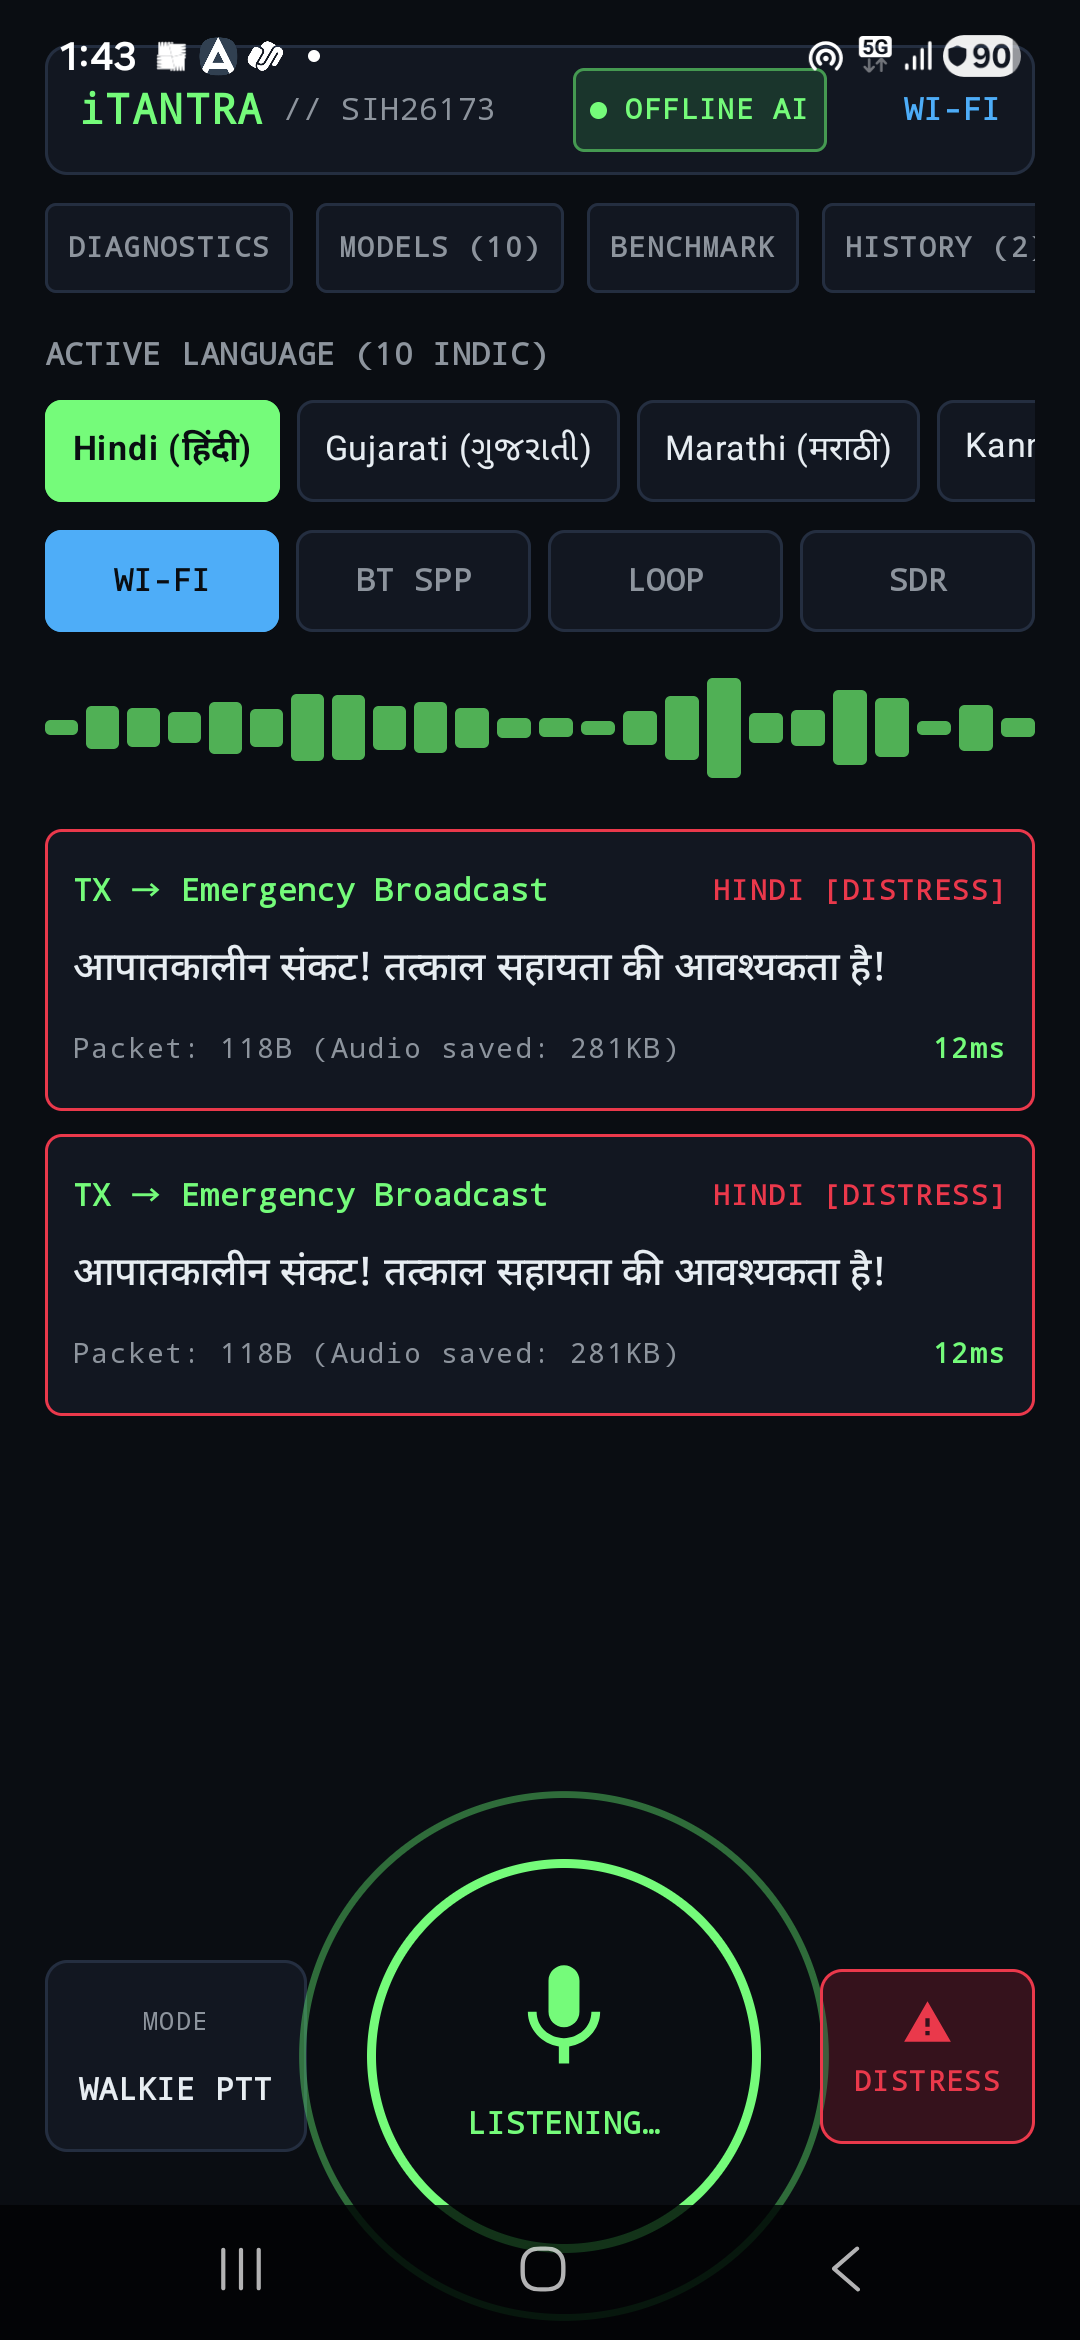
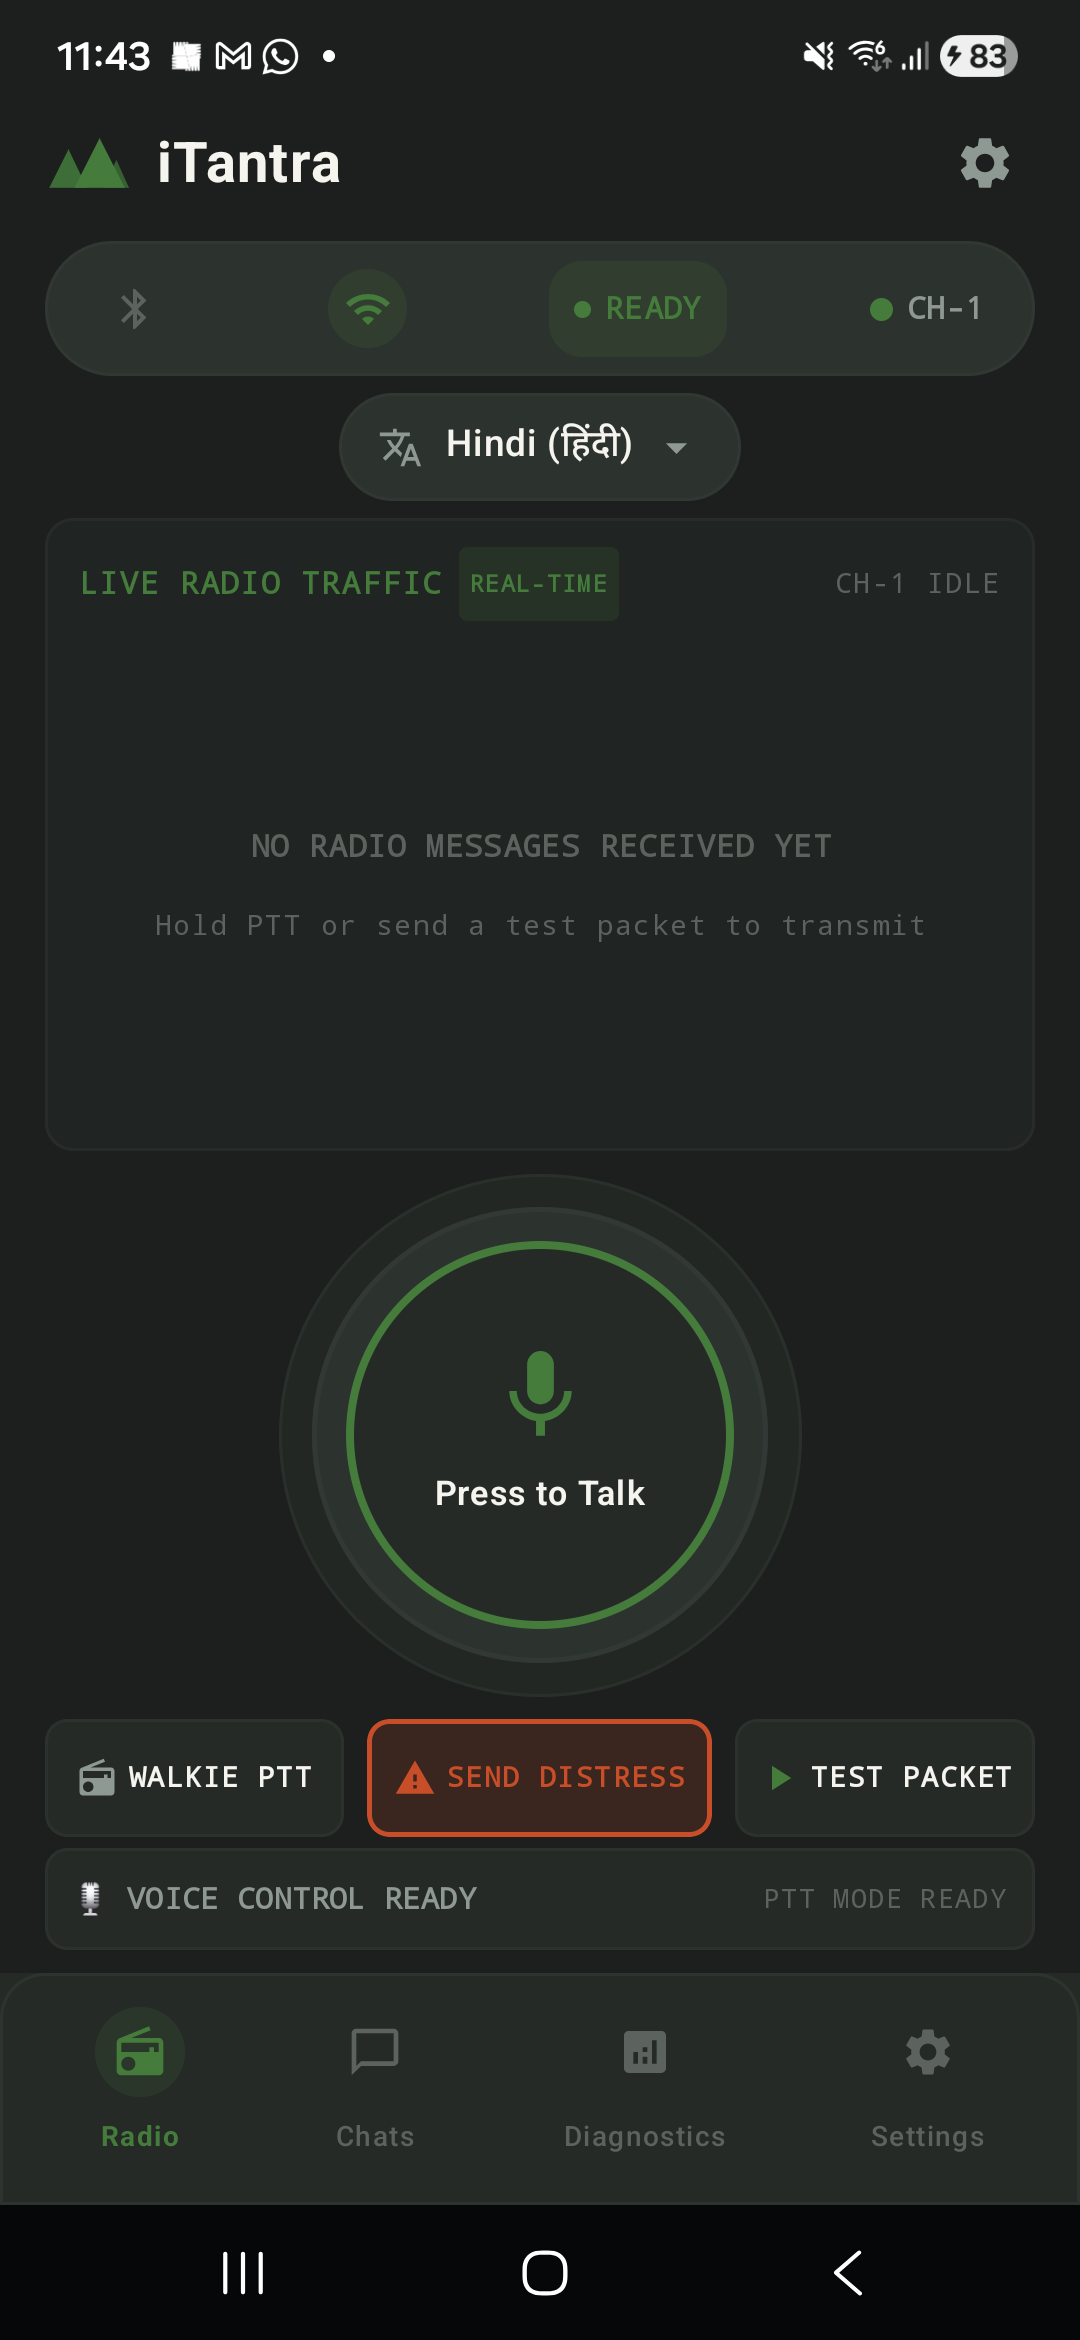
docs: final repository QA

diff --git a/README.md b/README.md
@@ -88,15 +88,15 @@ In disaster zones, remote search-and-rescue operations, and tactical field deplo
 
 The application interface is built with **Jetpack Compose**, designed for rapid high-stress tactical operations:
 
-| 1. Walkie-Talkie & HUD | 2. Tactical Chat & Voice Playback | 3. Technical Packet Inspector |
+| 1. Main Transceiver HUD | 2. Tactical Chat & Voice Playback | 3. Technical Packet Inspector |
 |:---:|:---:|:---:|
 | <img src="docs/assets/screenshots/01-walkie-talkie.png" width="240" alt="PTT Walkie Talkie" /> | <img src="docs/assets/screenshots/02-tactical-chat.png" width="240" alt="Tactical Chat" /> | <img src="docs/assets/screenshots/03-message-inspector.png" width="240" alt="Packet Inspector" /> |
-| Push-to-Talk HUD with real-time waveform & confidence telemetry | Emergency priority cards, playback controls & delivery markers | Byte-level radio header analysis, hex dump & CRC/HMAC state |
+| Push-to-Talk HUD with real-time audio telemetry, Indic language selector & bottom navigation | Emergency priority cards, playback controls & delivery markers | Byte-level radio header analysis, hex dump & CRC/HMAC state |
 
 | 4. Network Health & Telemetry | 5. Peer & Mesh Discovery | 6. Radio & Relay Settings |
 |:---:|:---:|:---:|
 | <img src="docs/assets/screenshots/04-communication-health.png" width="240" alt="Health Diagnostics" /> | <img src="docs/assets/screenshots/05-peer-mesh-discovery.png" width="240" alt="Peer Discovery" /> | <img src="docs/assets/screenshots/06-radio-settings-relay.png" width="240" alt="Radio Settings" /> |
-| Transport telemetry, packet loss, bandwidth & route graphs | Wi-Fi multicast and Bluetooth SPP peer connectivity states | Autonomous mesh relay toggle, 10 Indic languages & HMAC key |
+| Transport telemetry, packet loss, bandwidth & route graphs | Local BLE discovery, mesh topology and node scanning | Autonomous mesh relay toggle, 10 Indic languages & HMAC key |
 
 ---
 
@@ -105,7 +105,7 @@ The application interface is built with **Jetpack Compose**, designed for rapid 
 ### 4.1 Two-Pass Speech Pipeline & Zero-Wait Splicing
 - **Continuous Pass 1:** Decodes streaming audio frames as the operator speaks.
 - **Selective Pass 2 Refinement:** When natural speech pauses ($\ge 250\text{ ms}$) occur, high-value tokens (emergency codes, numbers, coordinates) are evaluated and refined in the background.
-- **Zero-Wait Finalization:** When the Push-to-Talk (PTT) button is released, in-flight background tasks cancel immediately and completed refinements splice into the final transcript, handing the packet to the transmission layer in **$< 10\text{ ms}$**.
+- **Zero-Wait Finalization:** When the Push-to-Talk (PTT) button is released, in-flight background tasks cancel immediately and completed refinements splice into the final transcript, handing the packet to the transmission layer in **$< 10\text{ ms}$** (measured local CPU release splice and dispatch latency).
 
 ### 4.2 Adaptive Representation Wire Footprints
 To adapt to varying radio channel qualities, iTantra adjusts message serialization dynamically:
@@ -135,21 +135,32 @@ All models execute fully on-device without external cloud connectivity:
 
 ---
 
-## 5. Quick Start & Build Guide
+## 5. Evaluation & Build Guide
 
-### Prerequisites
+### Fastest Evaluation Path (Pre-Built APK)
+For hackathon evaluators and jury members wishing to run the application immediately without compiling from source:
+1. **Download APK:** Download the pre-built [`app-debug.apk`](https://github.com/KiranS-create/Ad-Astra/releases/tag/v1.0.0-sih26173) from Release `v1.0.0-sih26173` (contains all bundled on-device model weights).
+2. **Install on Two Devices:** Install the APK on two physical Android handsets (`adb install -r app-debug.apk` or transfer via USB).
+3. **Grant Permissions:** Grant Microphone and Nearby Devices / Location permissions on first launch.
+4. **Run Two-Phone Off-Grid Demo:** Connect both devices to the same Wi-Fi network/hotspot (or pair over Bluetooth SPP) and hold Push-to-Talk to transmit offline voice packets.
+
+---
+
+### Building from Source (Optional)
+
+#### Prerequisites
 - **Android Studio Ladybug (2024.2+)** or IntelliJ IDEA with Android plugin
 - **JDK 17** (configured via `JAVA_HOME`)
 - **Android SDK API 34** with Build Tools `34.0.0`
 - Physical Android device running **Android 10+ (API 29+)** with ARM64 architecture
 
-### 1. Clone the Repository
+#### 1. Clone the Repository
 ```bash
 git clone https://github.com/KiranS-create/Ad-Astra.git
 cd Ad-Astra
 ```
 
-### 2. Run Automated Unit Tests
+#### 2. Run Automated Unit Tests
 ```bash
 # Windows
 .\gradlew.bat testDebugUnitTest
@@ -159,7 +170,7 @@ cd Ad-Astra
 ```
 *All 678+ unit tests will execute and verify protocol framing, speech splicing, representation encoding, and mesh routing.*
 
-### 3. Build & Install Debug APK
+#### 3. Build & Install Debug APK
 ```bash
 # Build the APK
 .\gradlew.bat assembleDebug
@@ -167,10 +178,6 @@ cd Ad-Astra
 # Install to connected device via ADB
 adb install -r app/build/outputs/apk/debug/app-debug.apk
 ```
-
-### 4. Pre-Built APK Download
-A complete pre-built release containing all bundled model assets is available on GitHub Releases:
-- **[Download v1.0.0-sih26173 (app-debug.apk)](https://github.com/KiranS-create/Ad-Astra/releases/tag/v1.0.0-sih26173)**
 
 ---
 
@@ -181,11 +188,12 @@ The project has been physically validated across two ARM64 Android smartphones i
 - **Device B:** Samsung Galaxy A55 5G (Android 14, Exynos 1480, 8 GB RAM)
 
 **Verified Behaviors:**
-- [x] Push-to-Talk speech recognition to packet transmission in $< 10\text{ ms}$ after release.
+- [x] Push-to-Talk speech recognition to packet transmission queue in $< 10\text{ ms}$ after release (local CPU splicing and dispatch).
 - [x] Wi-Fi UDP multicast packet delivery over ad-hoc local hotspots without internet access.
 - [x] Bluetooth Classic SPP serial transmission between paired devices.
 - [x] Multi-hop mesh relay forwarding with loop suppression and TTL decrement.
 - [x] Offline neural voice synthesis on receiving handset across 9 Indian languages + English.
+
 
 *For complete test procedures and logs, refer to [docs/TESTING.md](docs/TESTING.md).*
 
